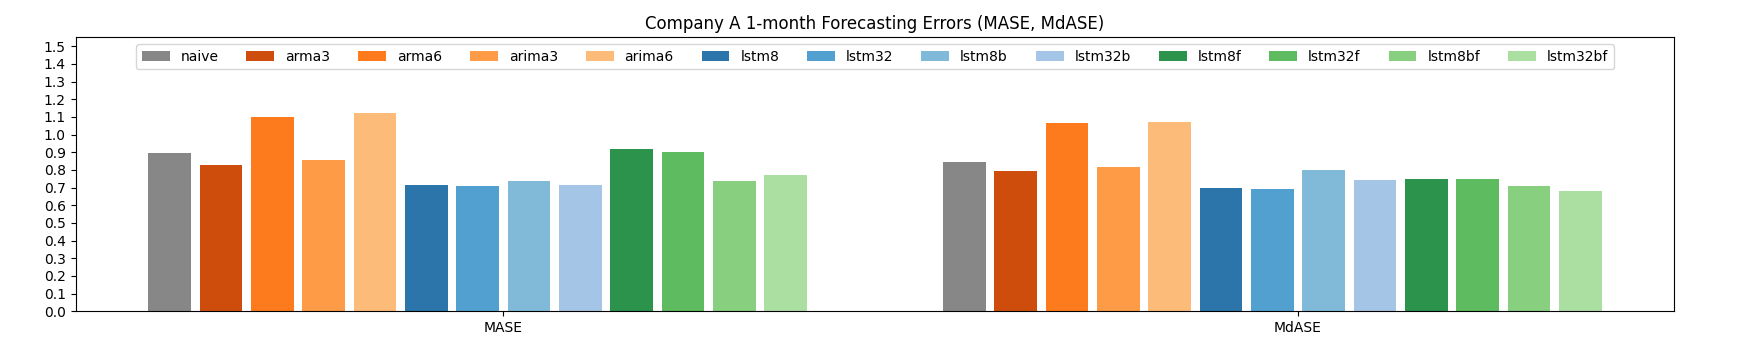
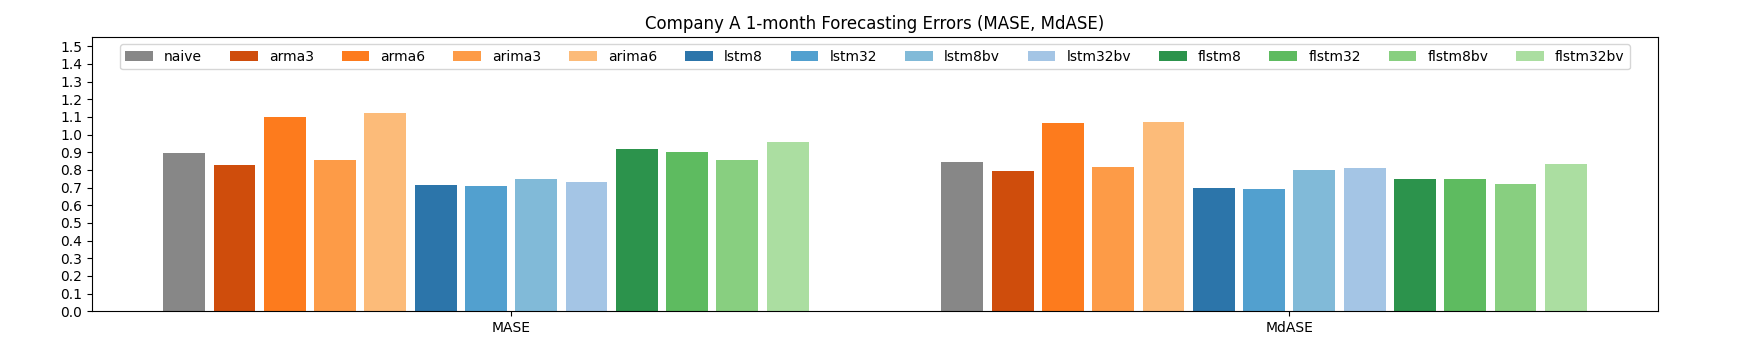
Replaced input lengths by variance as a training data balancing metric

diff --git a/src/plotting/plot_balance_distr.py b/src/plotting/plot_balance_distr.py
@@ -7,42 +7,46 @@ import numpy as np
 from matplotlib import pyplot as plt
 from numpy import ndarray
 
-from models.lstm import get_input_label_pairs_per_input_width
+from data_balancer import BalanceStrategy, balance_input_label_pairs
 from run_forecast import get_inputs_and_labels
 
 
 def _make_plot(company_name: str,
-               original_freq_per_input_width: Dict[int, int],
-               balanced_freq_per_input_width: Dict[int, int],
-               scale: float = 4,
+               balance_strategy: BalanceStrategy,
+               balance_labels: List[str], original_idx_bins: List[ndarray], balanced_idx_bins: List[ndarray],
+               scale: float = 5,
                ):
     fig, axes = plt.subplots(
         nrows=1, ncols=2, sharey="all",
-        figsize=(3 * scale, scale), dpi=150,
+        figsize=(3 * scale, scale), dpi=100,
     )
 
-    for ax, _freq_per_input_width, ax_title in zip(
+    balance_strategy_dname = balance_strategy.name.lower().capitalize()
+
+    for ax, idx_bins, ax_title in zip(
             axes,
-            [original_freq_per_input_width, balanced_freq_per_input_width],
-            ["Original", "Balanced"],
+            [original_idx_bins, balanced_idx_bins],
+            ["Original", f"Balanced"],
     ):
-        freqs = np.asarray(list(_freq_per_input_width.values()))
+        freqs = np.asarray([len(idx_bin) for idx_bin in idx_bins])
         xs = np.arange(len(freqs))
 
         ax.bar(xs, freqs, width=0.7)
 
-        ax.set_xticks([])
-        ax.set_xticklabels([])
+        ax.set_xticks(xs)
+        ax.set_xticklabels(balance_labels)
 
         ax.set_title(f"{ax_title}")
-        ax.set_xlabel("Input Width Categories")
+        ax.set_xlabel(f"{balance_strategy_dname} Categories")
 
-    fig.suptitle(f"Company {company_name} Training Input Width Distribution")
+    fig.suptitle(f"Company {company_name} Training Data Balancing by {balance_strategy_dname}")
     fig.supylabel("Frequency", ha="center")
 
     fig.tight_layout()
 
-    fig_file_path = join("results", "input_width_distr", f"input_width_distr_{company_name}.png")
+    fig_file_path = join(
+        "results", "balance_distr", f"balance_distr_{company_name}.{balance_strategy.name.lower()}.png",
+    )
     print(f"Writing to {fig_file_path}...")
     makedirs(dirname(fig_file_path), exist_ok=True)
     plt.savefig(fig_file_path)
@@ -62,7 +66,8 @@ def _get_freq_per_input_width(
     ))
 
 
-def plot_err_distr(company_name: str, col_name: str, min_cont_length: int, label_width: int,
+def plot_err_distr(company_name: str, balance_strategy: BalanceStrategy,
+                   col_name: str, min_cont_length: int, label_width: int,
                    data_dir_path: str = "data",
                    ):
     inputs, labels = get_inputs_and_labels(
@@ -71,23 +76,16 @@ def plot_err_distr(company_name: str, col_name: str, min_cont_length: int, label
         data_dir_path=data_dir_path,
     )
 
-    original_freq_per_input_width = _get_freq_per_input_width(
-        input_label_pairs_per_input_width=get_input_label_pairs_per_input_width(
-            inputs=inputs, labels=labels, do_balance=False,
-        )
+    _, (balance_labels, original_idx_bins, balanced_idx_bins) = balance_input_label_pairs(
+        inputs=inputs, labels=labels, strategy=balance_strategy,
     )
-    balanced_freq_per_input_width = _get_freq_per_input_width(
-        input_label_pairs_per_input_width=get_input_label_pairs_per_input_width(
-            inputs=inputs, labels=labels, do_balance=True,
-        )
-    )
-
-    assert list(original_freq_per_input_width.keys()) == list(balanced_freq_per_input_width.keys())
 
     _make_plot(
         company_name=company_name,
-        original_freq_per_input_width=original_freq_per_input_width,
-        balanced_freq_per_input_width=balanced_freq_per_input_width,
+        balance_strategy=balance_strategy,
+        balance_labels=balance_labels,
+        original_idx_bins=original_idx_bins,
+        balanced_idx_bins=balanced_idx_bins,
     )
 
 
@@ -95,6 +93,10 @@ def _main():
     arg_parser = ArgumentParser()
 
     arg_parser.add_argument("company_names", type=str, nargs="+")
+    arg_parser.add_argument(
+        "--balance-strategy", "-b", type=str, required=True,
+        choices=[s.name.lower() for s in BalanceStrategy],
+    )
     arg_parser.add_argument("--col-name", metavar="", type=str, default="NormSpend")
     arg_parser.add_argument("--min-cont-length", "-l", metavar="", type=int, default=13)
     arg_parser.add_argument("--label-width", metavar="", type=int, default=6)
@@ -104,6 +106,7 @@ def _main():
     for company_name in args.company_names:
         plot_err_distr(
             company_name=company_name,
+            balance_strategy=BalanceStrategy[args.balance_strategy.upper()],
             col_name=args.col_name,
             min_cont_length=args.min_cont_length,
             label_width=args.label_width,

diff --git a/src/models/lstm.py b/src/models/lstm.py
@@ -1,6 +1,5 @@
-from collections import defaultdict
 from os.path import isdir
-from typing import List, Tuple, Dict
+from typing import List, Tuple, Optional
 
 import numpy as np
 import tensorflow as tf
@@ -10,50 +9,9 @@ from keras.layers import Dense, LSTM, Reshape
 from keras.metrics import RootMeanSquaredError
 from keras.src.optimizers import Adam
 from numpy import ndarray
-from numpy.random import default_rng
 
 from common import save_model, read_model
-
-
-def get_balanced_inputs_and_labels(
-        input_label_pairs_per_input_width: Dict[int, List[Tuple[ndarray, ndarray]]],
-) -> Dict[int, List[Tuple[ndarray, ndarray]]]:
-    bin_sizes = np.asarray([
-        len(input_label_pairs)
-        for input_label_pairs in input_label_pairs_per_input_width.values()
-    ])
-
-    balanced_coeffs = bin_sizes ** 0.25
-    balanced_coeffs /= balanced_coeffs.sum()
-
-    balanced_bin_sizes = np.round(balanced_coeffs * bin_sizes.sum()).astype(int)
-
-    balanced_input_label_pairs_per_input_width = {
-        input_width: [
-            input_label_pairs[_idx] for _idx in default_rng(seed=37).choice(
-                list(range(len(input_label_pairs))),
-                size=balanced_bin_sizes[bin_idx],
-            )
-        ]
-        for bin_idx, (input_width, (input_label_pairs)) in enumerate(input_label_pairs_per_input_width.items())
-    }
-
-    return balanced_input_label_pairs_per_input_width
-
-
-def get_input_label_pairs_per_input_width(
-        inputs: List[ndarray], labels: List[ndarray], do_balance: bool,
-) -> Dict[int, List[Tuple[ndarray, ndarray]]]:
-    input_label_pairs_per_input_width = defaultdict(list)
-    for _input, label in zip(inputs, labels):
-        input_label_pairs_per_input_width[len(_input)].append((_input, label))
-
-    if do_balance:
-        input_label_pairs_per_input_width = get_balanced_inputs_and_labels(
-            input_label_pairs_per_input_width=input_label_pairs_per_input_width,
-        )
-
-    return input_label_pairs_per_input_width
+from data_balancer import get_input_label_pairs_per_input_width, BalanceStrategy
 
 
 def _make_dataset(input_label_pairs: List[Tuple[ndarray, ndarray]]) -> tf.data.Dataset:
@@ -72,13 +30,14 @@ def _make_dataset(input_label_pairs: List[Tuple[ndarray, ndarray]]) -> tf.data.D
 
 
 def get_datasets(
-        inputs: List[ndarray], labels: List[ndarray], do_balance: bool,
+        inputs: List[ndarray], labels: List[ndarray],
+        balance_strategy: Optional[BalanceStrategy] = None,
         val_ratio: float = 0.2,
 ) -> Tuple[
     tf.data.Dataset, tf.data.Dataset,
 ]:
     input_label_pairs_per_input_width = get_input_label_pairs_per_input_width(
-        inputs=inputs, labels=labels, do_balance=do_balance,
+        inputs=inputs, labels=labels, balance_strategy=balance_strategy,
     )
 
     train_ds, val_ds = None, None
@@ -150,10 +109,11 @@ def model_forecast(model: Model, inputs: List[ndarray]) -> List[ndarray]:
 
 def train_and_forecast_lstm(
         inputs: List[ndarray], labels: List[ndarray], label_width: int, model_file_path: str,
-        n_neuron: int, do_balance: bool,
+        n_neuron: int,
+        balance_strategy: Optional[BalanceStrategy] = None,
         n_epoch: int = 500,
 ) -> List[ndarray]:
-    train_ds, val_ds = get_datasets(inputs=inputs, labels=labels, do_balance=do_balance)
+    train_ds, val_ds = get_datasets(inputs=inputs, labels=labels, balance_strategy=balance_strategy)
 
     if not isdir(model_file_path):
         model = build_and_train_lstm(

diff --git a/src/data_balancer.py b/src/data_balancer.py
@@ -1,0 +1,91 @@
+from collections import defaultdict
+from enum import IntEnum
+from typing import List, Tuple, Dict, Optional
+
+import numpy as np
+from numpy import ndarray
+from numpy.random import default_rng
+
+
+# TODO: reintroduce DTW
+class BalanceStrategy(IntEnum):
+    VARIANCE = 0
+    DTW = 1
+
+
+def get_distr(data: ndarray, n_bin: int = 10) -> Tuple[ndarray, List[ndarray], ndarray]:
+    bin_edges = np.histogram_bin_edges(data, bins=n_bin)
+    binned_inds = np.digitize(data, np.asarray(bin_edges[:-1]))
+    idx_bins = [np.flatnonzero(binned_inds == bin_idx) for bin_idx in range(1, len(bin_edges))]
+    idx_bins_sizes = np.asarray([len(idx_bin) for idx_bin in idx_bins])
+
+    return bin_edges, idx_bins, idx_bins_sizes
+
+
+def _balance_by_variance(inputs: List[ndarray]) -> Tuple[List[str], List[ndarray], List[ndarray]]:
+    variances = np.asarray([_input.var() for _input in inputs])
+
+    bin_edges, original_idx_bins, idx_bins_sizes = get_distr(data=variances)
+
+    balanced_coeffs = idx_bins_sizes ** 0.25
+    balanced_coeffs /= balanced_coeffs.sum()
+
+    balanced_bin_sizes = np.round(balanced_coeffs * idx_bins_sizes.sum()).astype(int)
+    balanced_idx_bins = [
+        np.random.choice(idx_bin, size=bin_size) if len(idx_bin) > 0 else np.asarray([])
+        for idx_bin, bin_size in zip(original_idx_bins, balanced_bin_sizes)
+    ]
+
+    balance_labels = [
+        f"{np.format_float_scientific(float(bin_edges[i]), precision=1, exp_digits=1)}"
+        f"\n..\n"
+        f"{np.format_float_scientific(float(bin_edges[i + 1]), precision=1, exp_digits=1)}"
+        for i in range(len(bin_edges) - 1)
+    ]
+
+    return balance_labels, original_idx_bins, balanced_idx_bins
+
+
+def balance_input_label_pairs(
+        inputs: List[ndarray], labels: List[ndarray], strategy: BalanceStrategy,
+) -> Tuple[
+    List[Tuple[ndarray, ndarray]],
+    Tuple[List[str], List[ndarray], List[ndarray]],
+]:
+    if strategy == BalanceStrategy.VARIANCE:
+        balance_labels, original_idx_bins, balanced_idx_bins = _balance_by_variance(inputs=inputs)
+
+    else:
+        # TODO: balance by DTW
+        pass
+
+    balanced_input_label_pairs = []
+    for balanced_idx_bin in balanced_idx_bins:
+        balanced_input_label_pairs.extend([
+            (inputs[i], labels[i]) for i in balanced_idx_bin
+        ])
+
+    return (
+        balanced_input_label_pairs,
+        (balance_labels, original_idx_bins, balanced_idx_bins),
+    )
+
+
+def get_input_label_pairs_per_input_width(
+        inputs: List[ndarray], labels: List[ndarray],
+        balance_strategy: Optional[BalanceStrategy] = None,
+) -> Dict[
+    int, List[Tuple[ndarray, ndarray]],
+]:
+    if balance_strategy is not None:
+        input_label_pairs, _ = balance_input_label_pairs(
+            inputs=inputs, labels=labels, strategy=balance_strategy,
+        )
+    else:
+        input_label_pairs = list(zip(inputs, labels))
+
+    input_label_pairs_per_input_width = defaultdict(list)
+    for _input, label in input_label_pairs:
+        input_label_pairs_per_input_width[len(_input)].append((_input, label))
+
+    return input_label_pairs_per_input_width

diff --git a/src/run_forecast.py b/src/run_forecast.py
@@ -8,6 +8,7 @@ from numpy import ndarray
 
 from common import read_cont_seqs_csv, save_forecast_data, get_forecast_data_file_path, read_forecast_data, \
     get_model_file_path
+from data_balancer import BalanceStrategy
 from models.arima import arima_forecast
 from models.lstm import train_and_forecast_lstm
 from models.lstm_fed import forecast_lstm_fed
@@ -23,18 +24,24 @@ class ForecastModel(Enum):
     ARIMA3 = (partial(arima_forecast, lag=3, diff=1), 3, "ARIMA (lag=3)")
     ARIMA6 = (partial(arima_forecast, lag=6, diff=1), 6, "ARIMA (lag=6)")
 
-    LSTM8 = (partial(train_and_forecast_lstm, n_neuron=8, do_balance=False), 1, "LSTM (n_neuron=8)")
-    LSTM32 = (partial(train_and_forecast_lstm, n_neuron=32, do_balance=False), 1, "LSTM (n_neuron=32)")
+    LSTM8 = (partial(train_and_forecast_lstm, n_neuron=8, balance_strategy=None), 1, "LSTM (n_neuron=8)")
+    LSTM32 = (partial(train_and_forecast_lstm, n_neuron=32, balance_strategy=None), 1, "LSTM (n_neuron=32)")
 
-    LSTM8B = (partial(train_and_forecast_lstm, n_neuron=8, do_balance=True), 1, "LSTM (n_neuron=8, balanced)")
-    LSTM32B = (partial(train_and_forecast_lstm, n_neuron=32, do_balance=True), 1, "LSTM (n_neuron=32, balanced)")
+    LSTM8BV = (
+        partial(train_and_forecast_lstm, n_neuron=8, balance_strategy=BalanceStrategy.VARIANCE),
+        1, "LSTM (n_neuron=8, balanced)",
+    )
+    LSTM32BV = (
+        partial(train_and_forecast_lstm, n_neuron=32, balance_strategy=BalanceStrategy.VARIANCE),
+        1, "LSTM (n_neuron=32, balanced)",
+    )
 
     # TODO: this is a bit ugly/duplicated? (partial() is cheating)
-    LSTM8F = (partial(forecast_lstm_fed), 1, "LSTM (n_neuron=8, federated)")
-    LSTM32F = (partial(forecast_lstm_fed), 1, "LSTM (n_neuron=32, federated)")
+    FLSTM8 = (partial(forecast_lstm_fed), 1, "LSTM (n_neuron=8, federated)")
+    FLSTM32 = (partial(forecast_lstm_fed), 1, "LSTM (n_neuron=32, federated)")
 
-    LSTM8BF = (partial(forecast_lstm_fed), 1, "LSTM (n_neuron=8, balanced, federated)")
-    LSTM32BF = (partial(forecast_lstm_fed), 1, "LSTM (n_neuron=32, balanced, federated)")
+    FLSTM8BV = (partial(forecast_lstm_fed), 1, "LSTM (n_neuron=8, balanced, federated)")
+    FLSTM32BV = (partial(forecast_lstm_fed), 1, "LSTM (n_neuron=32, balanced, federated)")
 
     def __init__(self, forecast_func: callable, min_input_width: int, display_name: str):
         self._forecast_func: callable = forecast_func

diff --git a/src/plotting/plot_eval_results.py b/src/plotting/plot_eval_results.py
@@ -30,13 +30,13 @@ COLOR_PER_MODEL_NAME = {
 
         (ForecastModel.LSTM8, 0),
         (ForecastModel.LSTM32, 1),
-        (ForecastModel.LSTM8B, 2),
-        (ForecastModel.LSTM32B, 3),
+        (ForecastModel.LSTM8BV, 2),
+        (ForecastModel.LSTM32BV, 3),
 
-        (ForecastModel.LSTM8F, 8),
-        (ForecastModel.LSTM32F, 9),
-        (ForecastModel.LSTM8BF, 10),
-        (ForecastModel.LSTM32BF, 11),
+        (ForecastModel.FLSTM8, 8),
+        (ForecastModel.FLSTM32, 9),
+        (ForecastModel.FLSTM8BV, 10),
+        (ForecastModel.FLSTM32BV, 11),
     ]
 }
 

diff --git a/src/models/lstm_fed.py b/src/models/lstm_fed.py
@@ -18,7 +18,7 @@ def _get_relevant_model_file_paths(model_file_path: str) -> Tuple[List[str], str
 
     model_file_paths = [
         get_model_file_path(
-            model_name=fed_model_name[:-1],
+            model_name=fed_model_name[1:],  # e.g. FLSTM32_F -> LSTM32
             company_name=company_name, col_name=col_name,
             min_cont_length=min_cont_length, label_width=label_width,
         )
